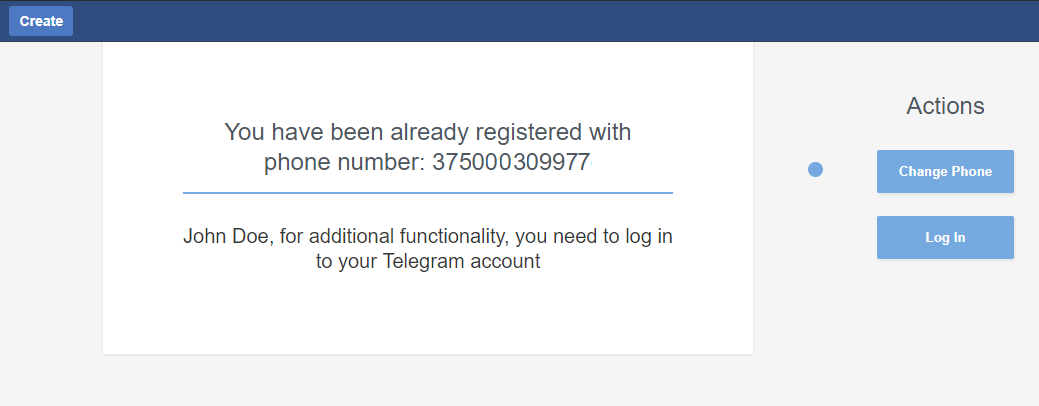
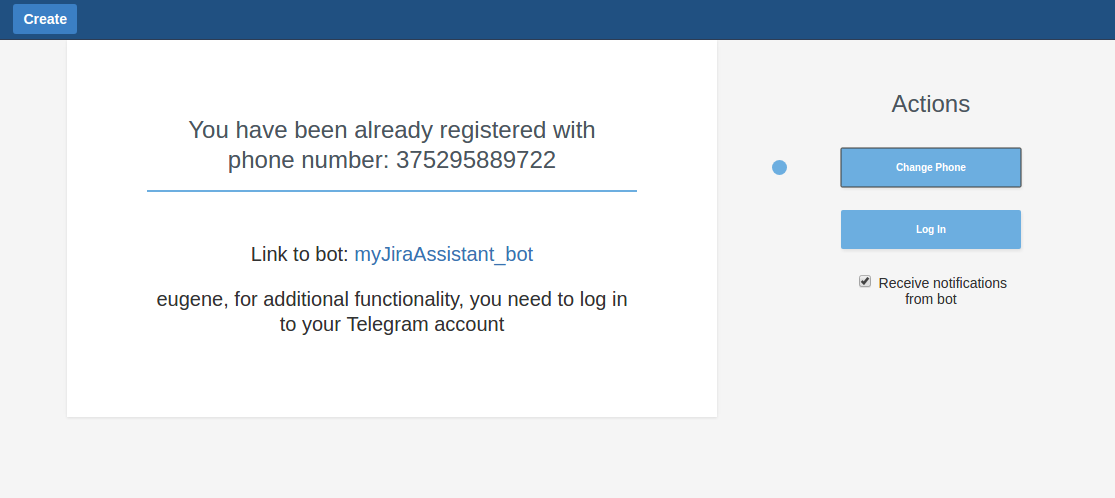
update screenshots and documentation

diff --git a/telegram/user-registration.html b/telegram/user-registration.html
@@ -34,8 +34,8 @@ title: Telegram Integration For Jira
         <br>
     </li>
     <li>
-        <b>Check your telegram account</b>
-        You'll see a new message from your JIRA Administrator with activation link.
+        <b>Go to your telegram account</b>
+        You need to start a conversation with bot.
         <br>
         <a href="#" onclick="return false;">
             <img onclick="makeFullScreen(this)" class="screenshot-small fullscreen"
@@ -43,20 +43,19 @@ title: Telegram Integration For Jira
                  src="../assets/img/screenshots/telegram/user-1-check-telegram.png"/>
         </a>
         <br>
-        Follow this link to finish authentication.
+        After pressing <b>/start</b> you can refresh profile page in JIRA and you'll see the following:
         <br>
         <a href="#" onclick="return false;">
             <img onclick="makeFullScreen(this)" class="screenshot-small fullscreen"
                  title="Click the image to open in full size"
                  src="../assets/img/screenshots/telegram/user-1-reg-succeed.png"/>
         </a>
+        <b>Receive notifications from bot checkbox</b> allows you to enable and disable direct notifications from bot.
+        <br>
         <br>
     </li>
     <li>
-        <b>Registration done!</b> On <b>Telegram</b> you'll see another message from your JIRA admin with link to
-        <b>Bot</b>.
-        Click on <b>@Botname</b>, then "<b>start</b>" button, or type "<b>/start</b>".
-        This actions will activate your account.
+        <b>Registration done!</b> On <b>Telegram</b> you'll see confirmation message from JIRA <b>Bot</b>.
         Now the bot will be able to send you a notification about changing the status of tasks.
         You'll see a new message from your JIRA Administrator with activation link.
         <br>
@@ -64,12 +63,6 @@ title: Telegram Integration For Jira
             <img onclick="makeFullScreen(this)" class="screenshot-small fullscreen"
                  title="Click the image to open in full size"
                  src="../assets/img/screenshots/telegram/user-1-add-bot-msg.png"/>
-        </a>
-        <br>
-        <a href="#" onclick="return false;">
-            <img onclick="makeFullScreen(this)" class="screenshot-small fullscreen"
-                 title="Click the image to open in full size"
-                 src="../assets/img/screenshots/telegram/user-1-bot-screen.png"/>
         </a>
         <br>
         Other users can add you to chats, you can see the list of chats related to the project on project page.
@@ -103,6 +96,7 @@ title: Telegram Integration For Jira
         </a>
         <br>
         Enter the code from this message in the "<b>Code</b>" field. <b>Do not forward</b> this message or send this code by Telegram, otherwise it will be expired.
+        Also, if you enabled Two-Factor authentication in your Telegram account, you need to enter your password too.
         Press the "<b>Check code</b>" button.
         <br>
         <a href="#" onclick="return false;">

diff --git a/telegram/user-chats.html b/telegram/user-chats.html
@@ -20,10 +20,18 @@ title: Telegram Integration For Jira
     <a href="#" onclick="return false;">
         <img onclick="makeFullScreen(this)" class="screenshot-small fullscreen"
              title="Click the image to open in full size"
-             src="../assets/img/screenshots/telegram/user-2-chat-table.png"/>
+             src="../assets/img/screenshots/telegram/user-2-chat-section.png"/>
     </a>
     <br>
     This section contains list of your chats for this project. Click the "Create new chat" button.
+    Below you can see a set of checkboxes (Bot notifications options), that allows you to set a default
+    value of "Send notifications to this chat via bot" checkbox in the create chat dialog for chats on this project.
+    <br>
+    <a href="#" onclick="return false;">
+        <img onclick="makeFullScreen(this)" class="screenshot-small fullscreen"
+             title="Click the image to open in full size"
+             src="../assets/img/screenshots/telegram/user-2-chat-table.png"/>
+    </a>
     <br>
     <a href="#" onclick="return false;">
         <img onclick="makeFullScreen(this)" class="screenshot-small fullscreen"
@@ -34,8 +42,8 @@ title: Telegram Integration For Jira
     In this window you can choose, is this chat for all project, or only for specified issue.
     You can have only one chat for each project, and one chat for each issue.
     Choose type and add users to your chat. In the "<b>Users</b>" field your name is disabled because you are creator of
-    this chat,
-    you can't create a chat and not be its participant.
+    this chat, you can't create a chat and not be its participant. <b>"Send notifications to this chat via bot"</b> checkbox allows you to
+    receive related notifications from Bot right in this chat.
 <p><b>Note:</b> If the user you added does not register in the Telegram Integration, he will be ignored.</p>
 If you choose issue chat, you'll see the option "<b>Auto post messages as comments</b>".
 Enabling this option means that every message from this chat will be posted in comments for this issue.

diff --git a/telegram/admin-guide.html b/telegram/admin-guide.html
@@ -41,6 +41,7 @@ title: Telegram Integration For Jira
         <br>
         Enter code from this message in the "<b>Code</b>" field. <b>Do not forward</b>
         this message or send this code by Telegram, otherwise it will be expired.
+        Also, if you enabled Two-Factor authentication in your Telegram account, you need to enter your password too.
         Press the "<b>Authenticate</b>" button.
         <br>
         <a href="#" onclick="return false;">
@@ -70,6 +71,10 @@ title: Telegram Integration For Jira
         <br>
         Press the "<b>Create bot</b>" button. If bot name and username are correct, you'll see page with telegram link
         to your bot.
+        Below you can see a set of checkboxes (Bot notifications options defaults), that allows you to set a default
+        value of <b>"Send notifications to this chat via bot"</b> checkbox in the create chat dialog.
+        <br>
+        <b>Receive notifications from bot</b> checkbox allows you to enable and disable direct notifications from bot.
         <br>
         <a href="#" onclick="return false;">
             <img onclick="makeFullScreen(this)" class="screenshot-small fullscreen"

diff --git a/telegram/bot-abilities.html b/telegram/bot-abilities.html
@@ -7,11 +7,10 @@ title: Telegram Integration For Jira
 Bot manages all chats created from Jira.
 <br>
 Bot checks recently added users, and,
-if they are registered in Telegram Integration, t
-hey can see this chat in the list in project menu.
+if they are registered in Telegram Integration, they can see this chat in the list in project menu.
 Otherwise bot posts in chat a warning message.
 <br>
-Bot sends notifications about changes in JIRA. Notification schema is the same as schema for emails.
+Bot can send notifications about changes in JIRA to you directly and to chats. Notification schema is the same as schema for emails.
 <br>
 List of events reported by the bot:
 <ul>
@@ -20,6 +19,7 @@ List of events reported by the bot:
     <li>Issue closed</li>
     <li>Issue assigned</li>
     <li>Issue deleted</li>
+    <li>Issue commented</li>
     <li>Issue comment edited</li>
     <li>Issue deleted</li>
 </ul>

diff --git a/_layouts/telegram-doc.html b/_layouts/telegram-doc.html
@@ -18,7 +18,7 @@
 
 <div class="container">
 
-    <header><h1><a href="/">Itransition LTD.</a></h1></header>
+    <header><h1><a href="/">Itransition Group</a></h1></header>
     <div class="navigation">
         <ul>
             <li><a href="/telegram/navigation.html"><span>Telegram Integration For Jira</span></a></li>
@@ -29,7 +29,7 @@
     </div>
 
     <footer>
-        <p>{{ site.time | date: '%Y' }}&nbsp;&nbsp;Itransition&nbsp;LTD.</p>
+        <p>{{ site.time | date: '%Y' }}&nbsp;&nbsp;Itransition&nbsp;Group</p>
     </footer>
 
 </div>
